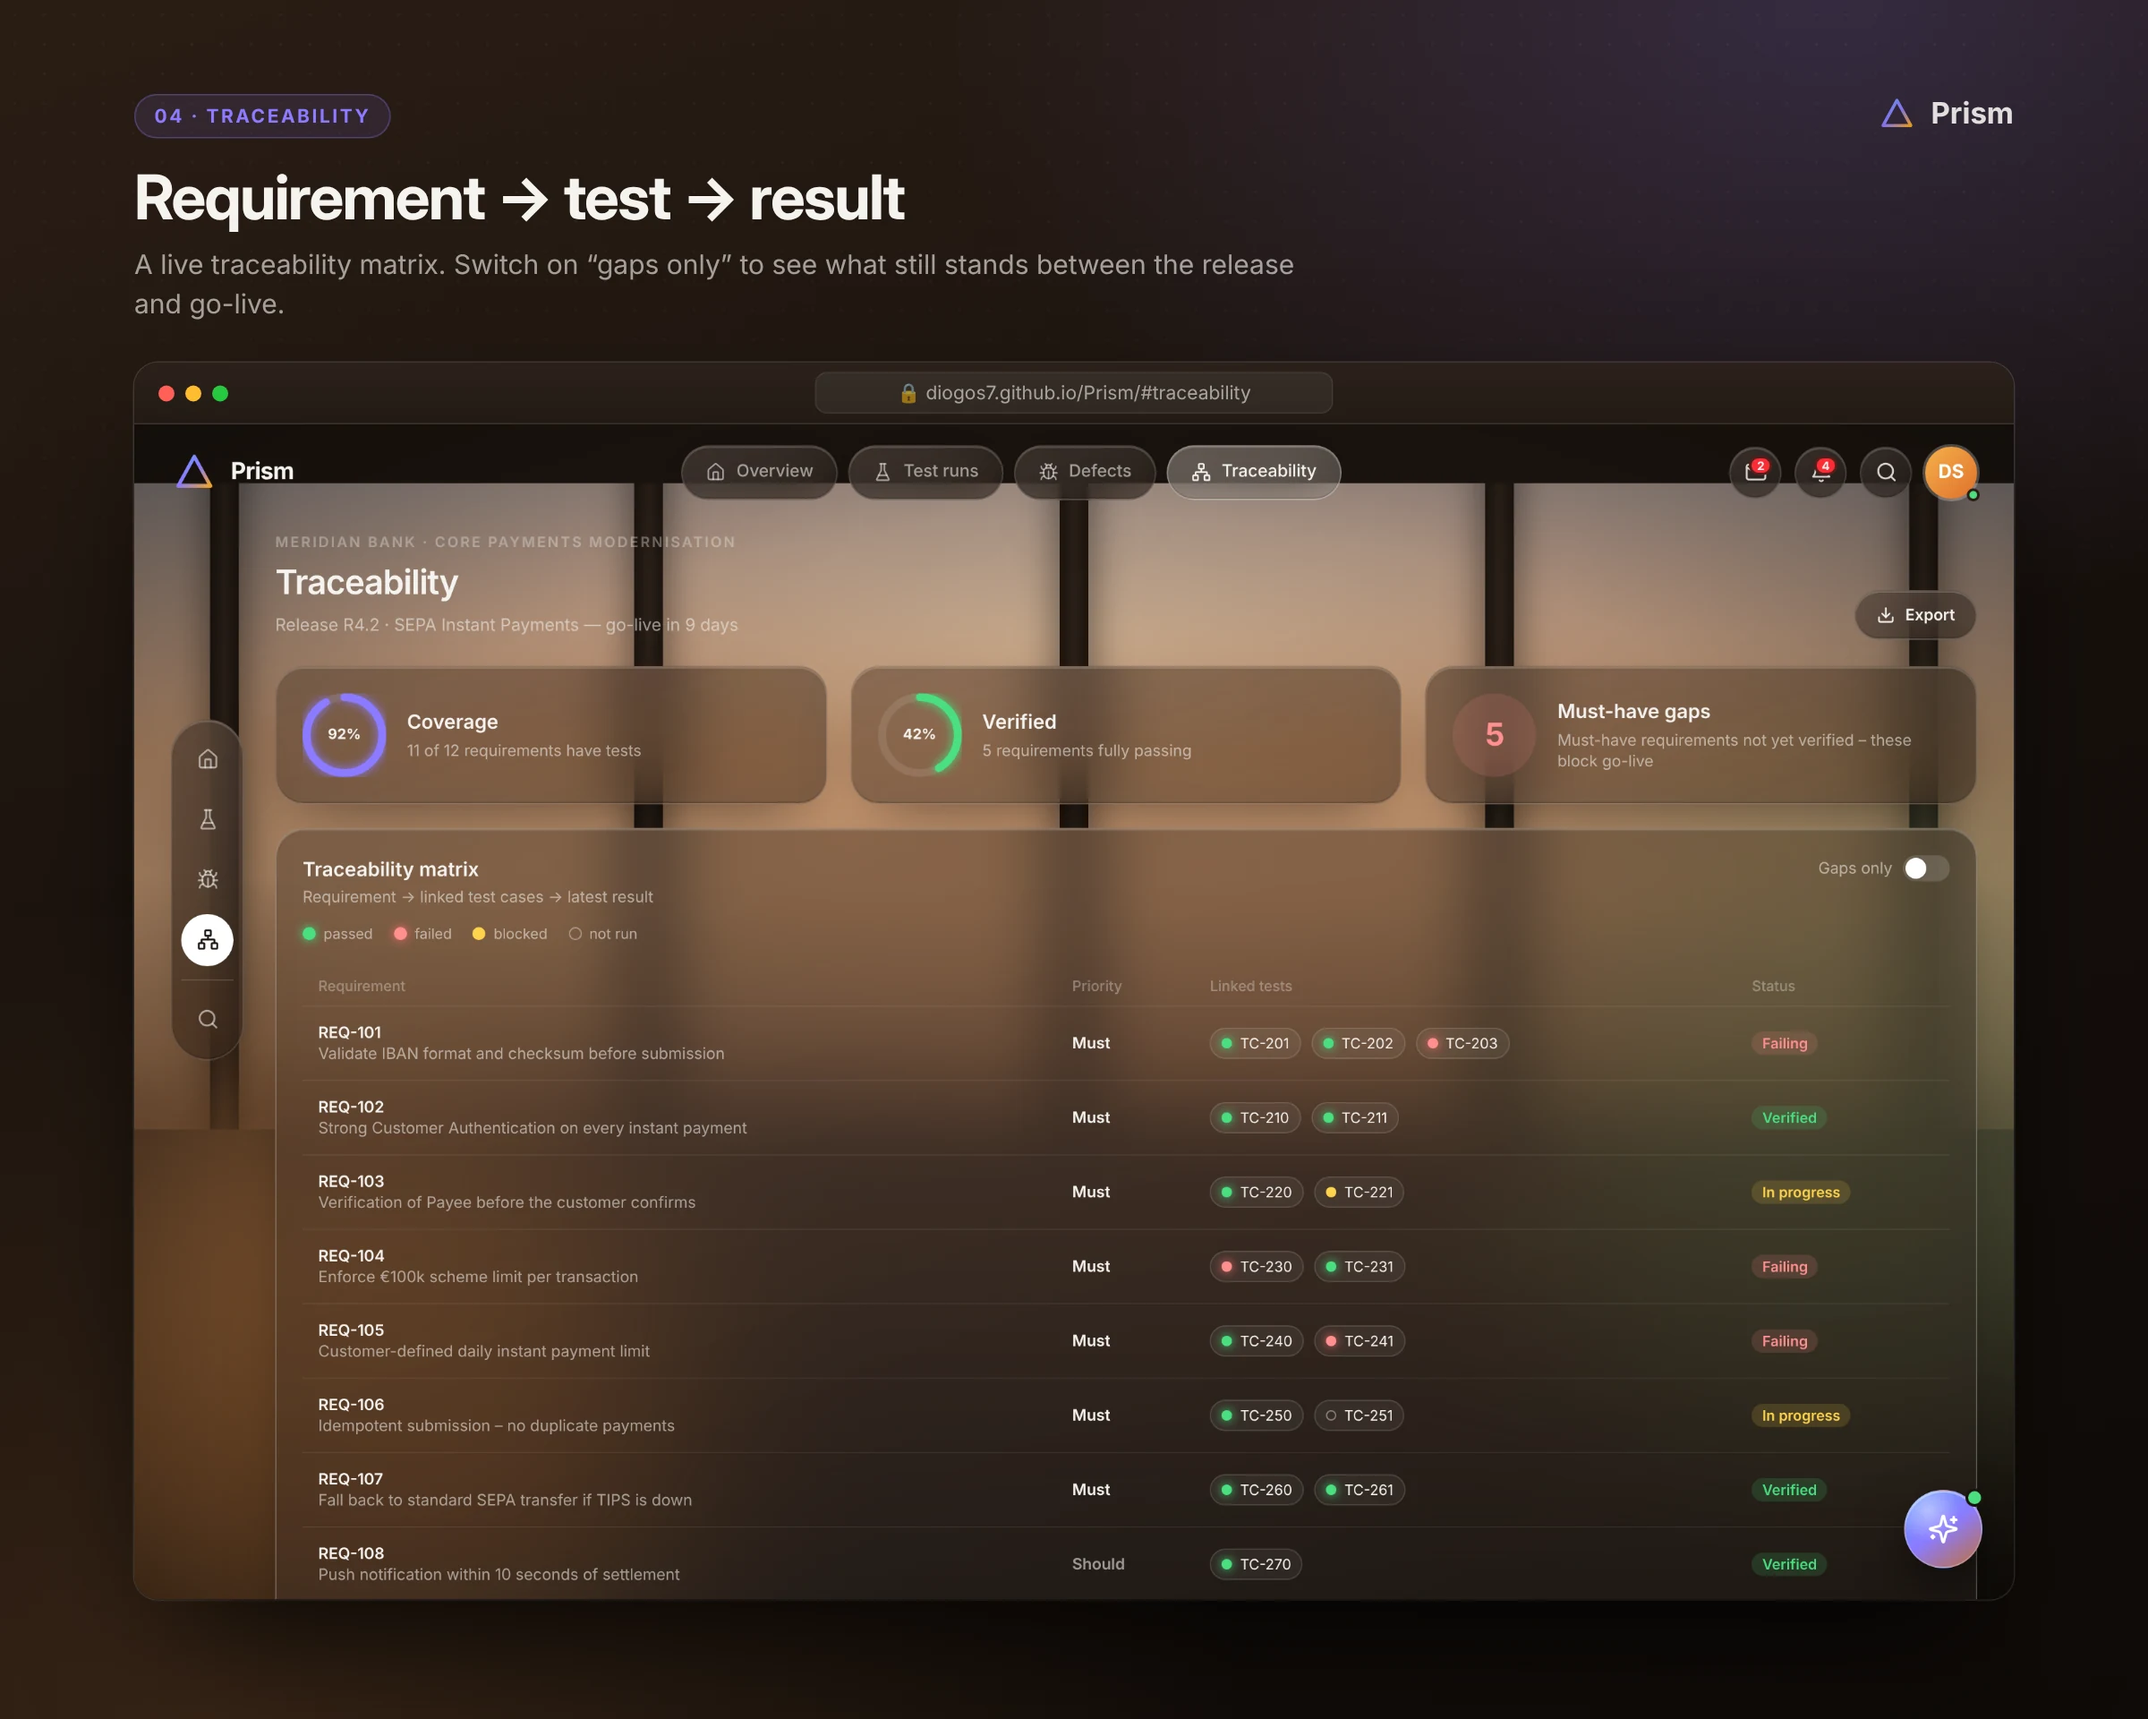
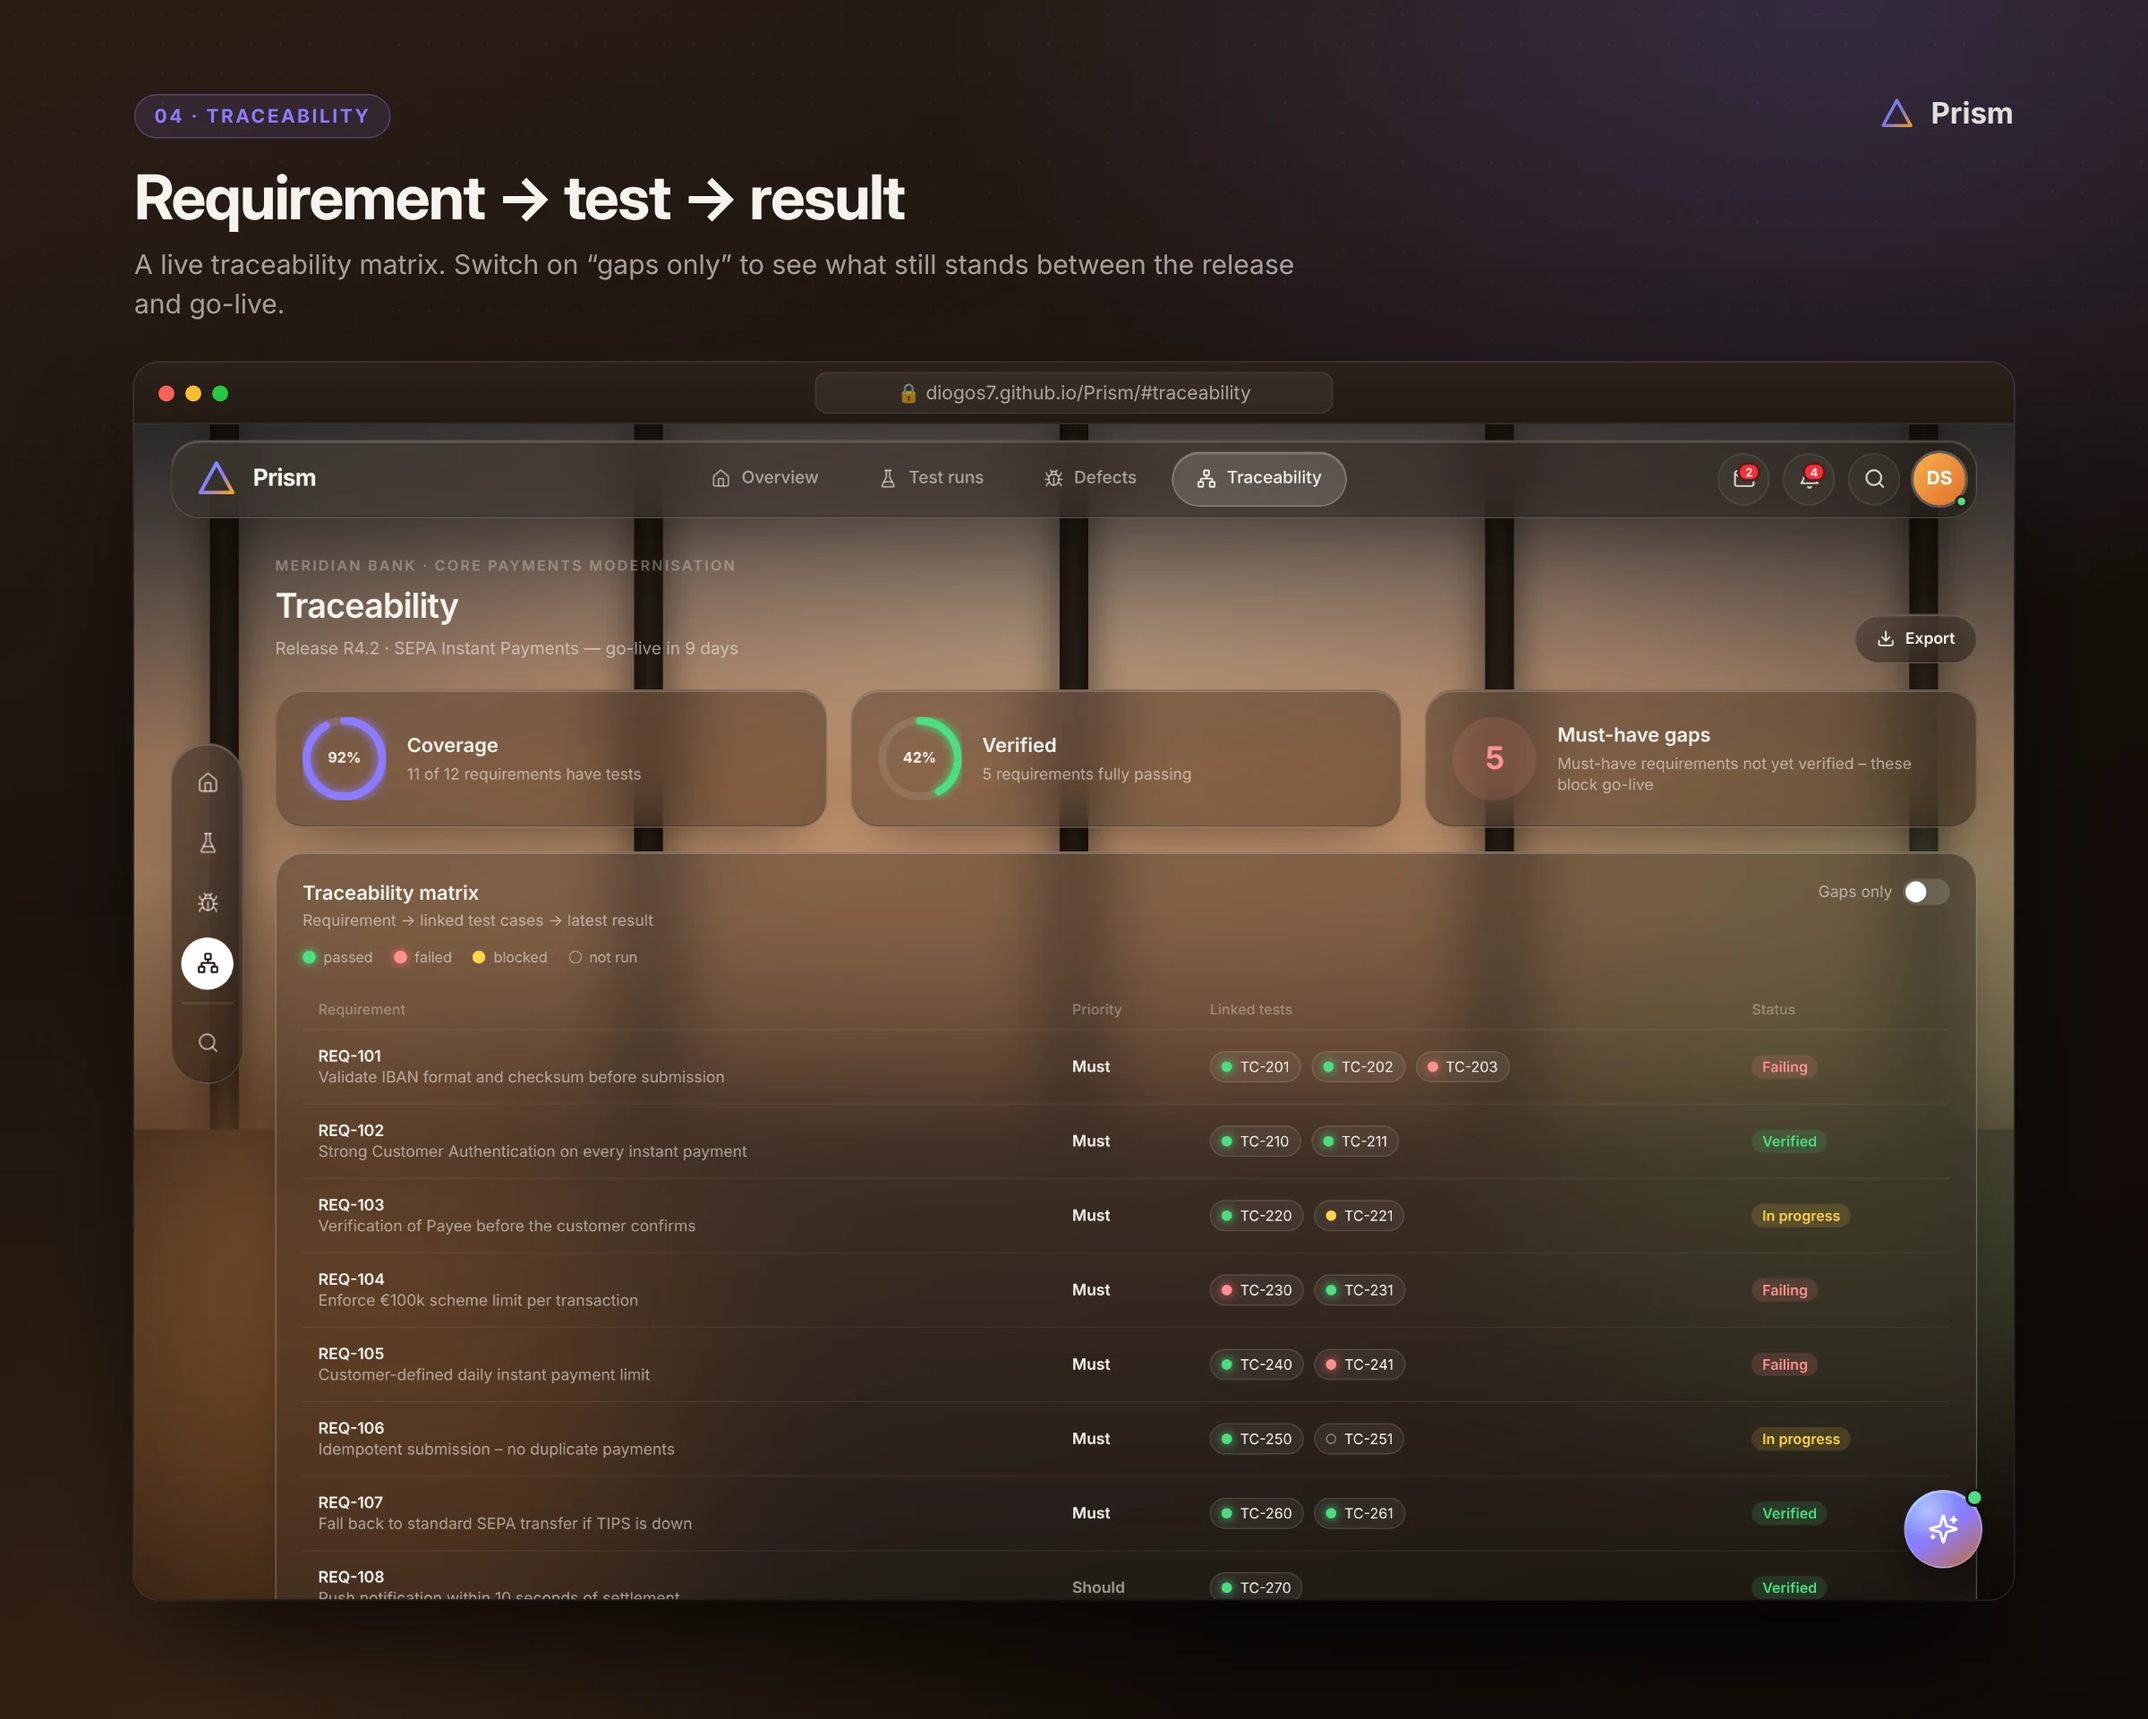
Glass navbar, remove dark top band, cap layout width

diff --git a/src/components/TopBar.jsx b/src/components/TopBar.jsx
@@ -32,7 +32,7 @@ function IconButton({ label, onClick, active, children, className = '' }) {
       title={label}
       onClick={onClick}
       aria-expanded={active}
-      className={`glass relative grid size-10 place-items-center rounded-full transition hover:bg-white/15 ${active ? '!bg-white/20 border-white/30' : ''} ${className}`}
+      className={`relative grid size-10 place-items-center rounded-full border transition hover:bg-white/10 ${active ? 'border-white/25 bg-white/15' : 'border-white/10 bg-white/[0.04]'} ${className}`}
     >
       {children}
     </button>
@@ -180,7 +180,8 @@ function ProfileMenu() {
 
 export default function TopBar({ tab, onTab, alerts, onOpenDefect, onOpenSearch }) {
   return (
-    <header className="relative z-30 mb-6 flex items-center justify-between gap-3">
+    <header className="sticky top-3 z-30 mb-7">
+      <div className="glass flex items-center justify-between gap-3 rounded-[22px] !bg-[#1d1510]/55 py-2 pr-2 pl-3 sm:pl-4">
       <button onClick={() => onTab('overview')} className="flex items-center gap-2.5" aria-label="Prism home">
         <svg viewBox="0 0 64 64" className="size-9" aria-hidden="true">
           <defs>
@@ -193,7 +194,7 @@ export default function TopBar({ tab, onTab, alerts, onOpenDefect, onOpenSearch 
           <path d="M32 10 54 50H10Z" fill="none" stroke="url(#logo)" strokeWidth="5" strokeLinejoin="round" />
           <path d="M20 38h24" stroke="url(#logo)" strokeWidth="4" strokeLinecap="round" opacity=".8" />
         </svg>
-        <span className="hidden text-lg font-bold tracking-tight xl:inline">Prism</span>
+        <span className="hidden text-lg font-bold tracking-tight sm:inline">Prism</span>
       </button>
 
       <nav className="flex gap-1.5 sm:gap-2" aria-label="Views">
@@ -204,8 +205,8 @@ export default function TopBar({ tab, onTab, alerts, onOpenDefect, onOpenSearch 
               key={id}
               onClick={() => onTab(id)}
               aria-current={active ? 'page' : undefined}
-              className={`glass flex items-center gap-2 rounded-full px-3 py-2.5 text-[13px] font-medium transition lg:px-[18px] ${
-                active ? 'border-white/30 !bg-white/15 text-ink' : 'text-muted hover:text-ink'
+              className={`flex items-center gap-2 rounded-full border px-3 py-2.5 text-[13px] font-medium transition lg:px-[18px] ${
+                active ? 'border-white/25 bg-white/15 text-ink shadow-[inset_0_1px_0_rgba(255,255,255,0.18)]' : 'border-transparent text-muted hover:bg-white/[0.07] hover:text-ink'
               }`}
             >
               <Icon size={15} />
@@ -222,6 +223,7 @@ export default function TopBar({ tab, onTab, alerts, onOpenDefect, onOpenSearch 
           <LuSearch size={17} className="opacity-85" />
         </IconButton>
         <ProfileMenu />
+      </div>
       </div>
     </header>
   );

diff --git a/src/components/QaAgent.jsx b/src/components/QaAgent.jsx
@@ -231,6 +231,20 @@ export default function QaAgent({ context, onAction }) {
                   </div>
                 ),
               )}
+              {userTurns < 2 && !busy && (
+                <div className="mt-1 flex flex-col items-start gap-1.5">
+                  <p className="px-1 text-[10px] font-semibold tracking-[0.14em] text-faint uppercase">Try asking</p>
+                  {SUGGESTIONS.map((s) => (
+                    <button
+                      key={s}
+                      onClick={() => ask(s)}
+                      className="rounded-full border border-white/12 bg-white/[0.05] px-3 py-1.5 text-left text-[11px] text-muted transition hover:bg-white/12 hover:text-ink"
+                    >
+                      {s}
+                    </button>
+                  ))}
+                </div>
+              )}
               {busy && (
                 <div className="glass-inset flex gap-1 self-start rounded-[16px] rounded-bl-md px-3.5 py-3" aria-label="Thinking">
                   {[0, 1, 2].map((d) => (
@@ -244,21 +258,6 @@ export default function QaAgent({ context, onAction }) {
                 </div>
               )}
             </div>
-
-            {/* Suggestions (until the conversation gets going) */}
-            {userTurns < 2 && (
-              <div className="flex gap-1.5 overflow-x-auto px-3 pt-1 pb-2 [scrollbar-width:none]">
-                {SUGGESTIONS.map((s) => (
-                  <button
-                    key={s}
-                    onClick={() => ask(s)}
-                    className="shrink-0 rounded-full border border-white/12 bg-white/[0.05] px-3 py-1.5 text-[11px] whitespace-nowrap text-muted transition hover:bg-white/12 hover:text-ink"
-                  >
-                    {s}
-                  </button>
-                ))}
-              </div>
-            )}
 
             {/* Input */}
             <form

diff --git a/src/components/Popover.jsx b/src/components/Popover.jsx
@@ -35,7 +35,7 @@ export default function Popover({ trigger, children, width = 320, align = 'right
             exit={{ opacity: 0, y: -6, scale: 0.98 }}
             transition={{ duration: 0.18 }}
             style={{ width: `min(${width}px, calc(100vw - 28px))` }}
-            className={`glass absolute top-12 z-50 rounded-[20px] p-2 !bg-[#1d1510]/85 max-md:!fixed max-md:!inset-x-3.5 max-md:!top-[68px] max-md:!w-auto ${align === 'right' ? 'right-0' : 'left-0'}`}
+            className={`glass absolute top-[52px] z-50 rounded-[20px] p-2 !bg-[#1d1510] max-md:!fixed max-md:!inset-x-0 max-md:!top-[62px] max-md:!w-auto ${align === 'right' ? 'right-0' : 'left-0'}`}
           >
             {typeof children === 'function' ? children(close) : children}
           </motion.div>

diff --git a/src/App.jsx b/src/App.jsx
@@ -145,7 +145,7 @@ export default function App() {
   return (
     <>
       <Scene />
-      <div className="relative z-10 min-h-full px-3.5 pt-4 pb-24 sm:px-7 md:pb-8">
+      <div className="relative z-10 mx-auto min-h-full max-w-[1680px] px-3.5 pt-3 pb-24 sm:px-7 md:pb-8">
         <TopBar tab={tab} onTab={navigate} alerts={ALERTS} onOpenDefect={openDefect} onOpenSearch={() => setSearchOpen(true)} />
 
         <div className="grid gap-6 md:grid-cols-[56px_1fr]">

diff --git a/src/index.css b/src/index.css
@@ -92,12 +92,12 @@
   background: linear-gradient(90deg, #1b140f, #2b2018 50%, #1b140f);
   box-shadow: 0 0 30px rgb(0 0 0 / 0.6);
 }
-.scene .beam {
+.scene .topfade {
   left: 0;
   right: 0;
   top: 0;
-  height: 5%;
-  background: #1b140f;
+  height: 28%;
+  background: linear-gradient(180deg, rgb(18 14 11 / 0.55) 0%, rgb(18 14 11 / 0) 100%);
 }
 .scene .lamp {
   width: 520px;

diff --git a/src/components/Scene.jsx b/src/components/Scene.jsx
@@ -14,7 +14,7 @@ export default function Scene() {
         <i />
         <i />
       </div>
-      <div className="beam" />
+      <div className="topfade" />
       <div className="floor" />
       <div className="lamp lamp-a" />
       <div className="lamp lamp-b" />
